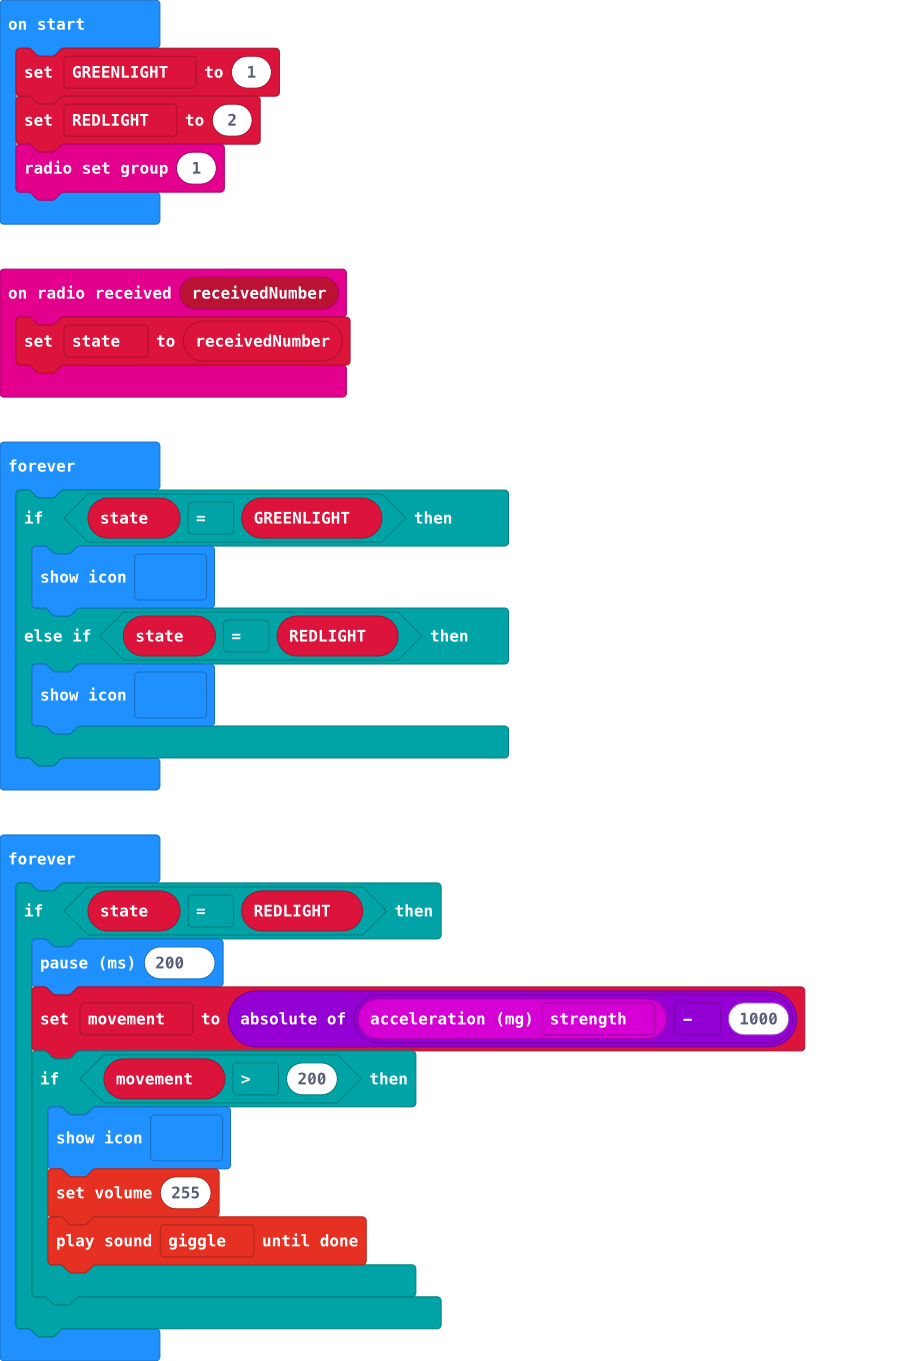
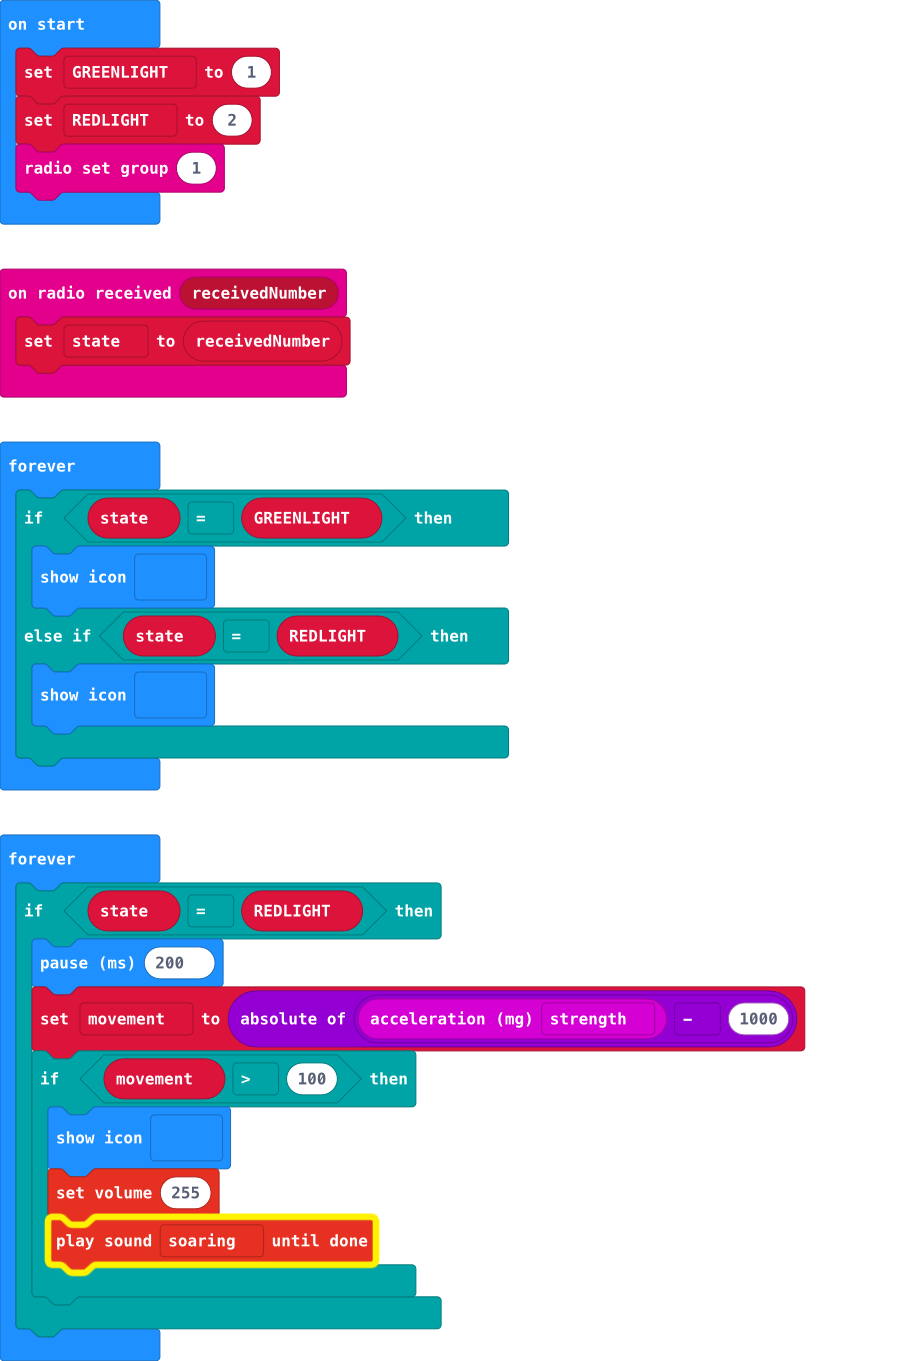
Update main.ts, main.blocks

Changed region(s): [[0.0308, 0.8641, 0.4312, 0.9566]]

diff --git a/main.ts b/main.ts
@@ -17,10 +17,10 @@ basic.forever(function () {
     if (state == REDLIGHT) {
         basic.pause(200)
         movement = Math.abs(input.acceleration(Dimension.Strength) - 1000)
-        if (movement > 200) {
+        if (movement > 100) {
             basic.showIcon(IconNames.Skull)
             music.setVolume(255)
-            soundExpression.giggle.playUntilDone()
+            soundExpression.soaring.playUntilDone()
         }
     }
 })
